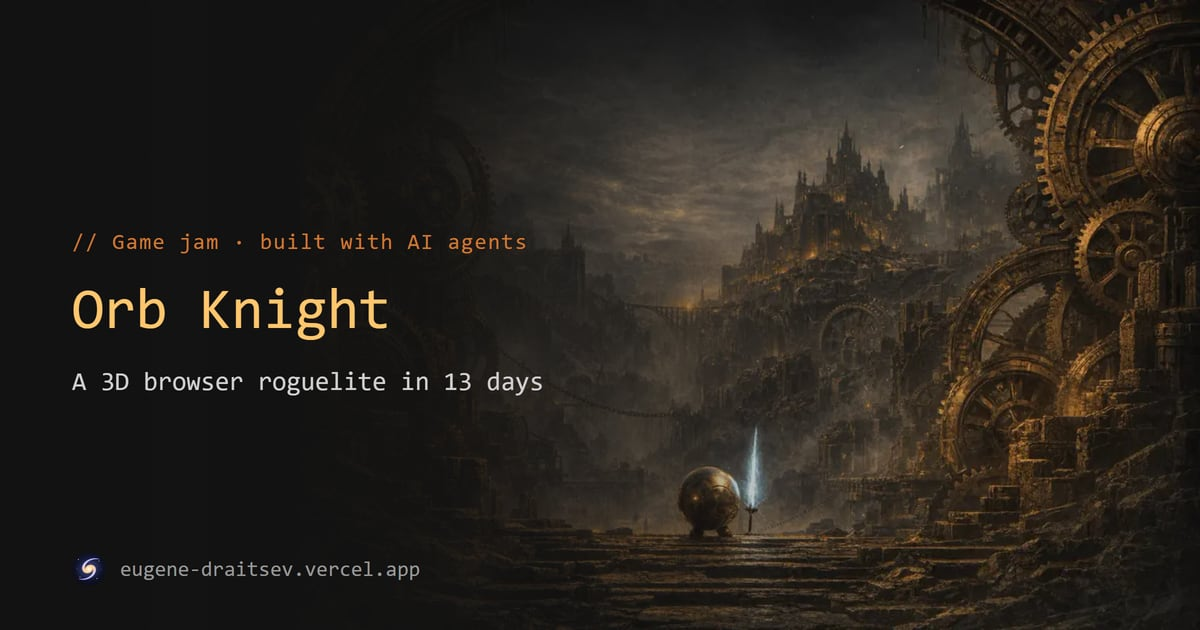
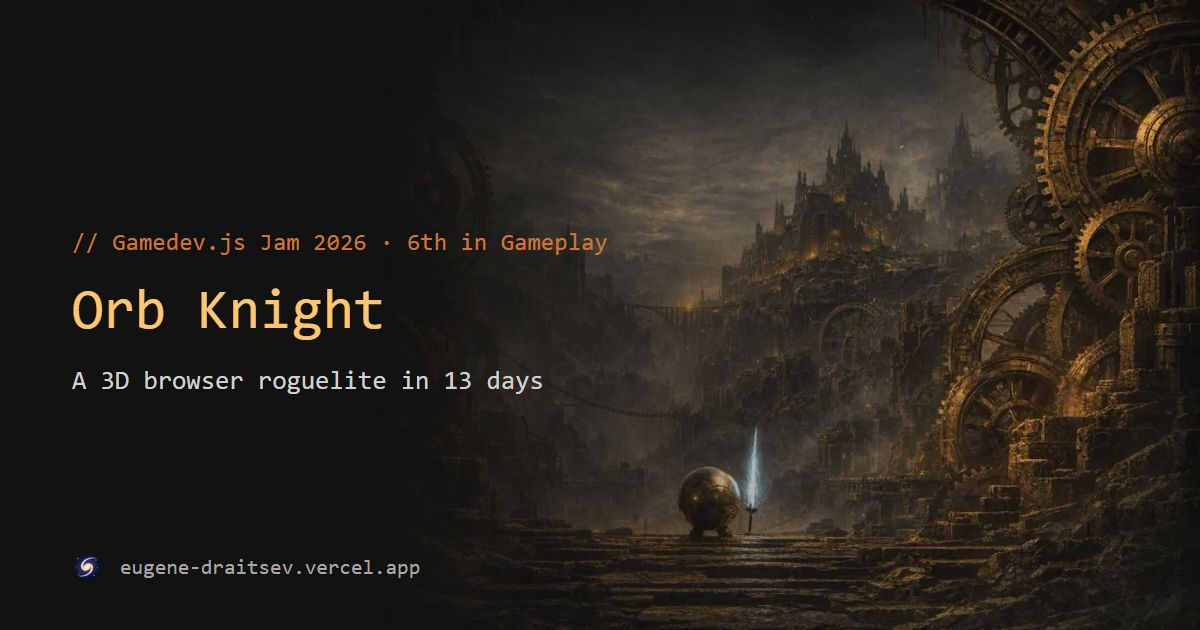
Lead the cards with the results: Rainroam's 2nd place, Orb Knight's ranks
Rainroam's blog card now shows the Shipaton winner card. The thumbnail
keeps the card's badge, name and line whole, padded with its own blurred
background so any crop of the list cell only trims the edges. Its social
card is the winner card itself.

Orb Knight is presented as the game it is rather than as an AI
experiment: the cards, label, tags, meta and lead name the jam and the
result (6th in Gameplay, 12th overall of 483, as itch.io and the
Gamedev.js announcement list it). The workflow section keeps one
paragraph on how it was built instead of the agents-versus-me split,
and the social card is re-rendered with the new label.

diff --git a/src/routes/blog/gamedevjs-2026/+page.svelte b/src/routes/blog/gamedevjs-2026/+page.svelte
@@ -114,41 +114,18 @@
     },
   ];
 
-  const ownership = [
-    {
-      title: 'What stayed mine',
-      items: [
-        'Scope: what the game is, and the growing list of what it is not',
-        'System boundaries between combat, rooms, progression and UI',
-        'Review of every change, plus integration and browser playtesting',
-        'Game feel: timing, camera, feedback — tuned by hand, repeatedly',
-        'The release call and the competition submission',
-      ],
-    },
-    {
-      title: 'What agents did',
-      items: [
-        'Implementation passes across Svelte, Threlte, Three.js and Rapier',
-        'First drafts of combat behaviors, room templates, enemies and UI',
-        'Mechanical refactors across many files',
-        'Storybook fixtures that pin runtime state for review',
-        'Codebase archaeology: "where does the damage number actually come from?"',
-      ],
-    },
-  ];
-
   const lessons = [
     {
       title: 'One observable behavior per loop',
-      text: 'The unit of work that survived: one behavior, one implementation pass, one browser check. Every time I batched more into a prompt, review cost grew faster than the code was worth.',
+      text: 'The unit of work that survived: one behavior, one implementation pass, one browser check. Every time I batched more into one change, review cost grew faster than the code was worth.',
     },
     {
       title: 'Correct is not the same as good',
-      text: 'Agents will happily ship combat that satisfies every stated rule and still feels like hitting cardboard. Feel only comes from playtesting and tuning, over and over.',
+      text: 'Combat can satisfy every stated rule and still feel like hitting cardboard. Feel only comes from playtesting and tuning, over and over.',
     },
     {
       title: 'Storybook was the highest-leverage tool',
-      text: 'Deterministic fixtures turned "run to the boss and hope" into "mount the boss with fixed state". Most agent output got reviewed inside these scenes — the same ones embedded above.',
+      text: 'Deterministic fixtures turned "run to the boss and hope" into "mount the boss with fixed state". Most changes got reviewed inside these scenes — the same ones embedded above.',
     },
     {
       title: 'Innovation cannot be patched in later',
@@ -161,7 +138,7 @@
   <title>Orb Knight: a 3D roguelite in 13 days | Eugene Draitsev</title>
   <meta
     name="description"
-    content="Building Orb Knight for Gamedev.js Jam 2026: a Svelte and Three.js action roguelite made in 13 days with AI coding agents, 6th in Gameplay. Build log and live WebGL scenes."
+    content="Building Orb Knight for Gamedev.js Jam 2026: a Svelte and Three.js action roguelite made in 13 days, 6th in Gameplay and 12th overall. Build log and live WebGL scenes."
   />
   <link rel="canonical" href={canonicalUrl} />
   <meta property="og:title" content={post.title} />
@@ -189,20 +166,17 @@
       </a>
 
       <header class="mt-6 mb-8">
-        <p class="mb-3 text-xs text-keyword uppercase sm:text-sm">
-          Game jam · 13 days · built with AI agents
-        </p>
+        <p class="mb-3 text-xs text-keyword uppercase sm:text-sm">Gamedev.js Jam 2026 · 13 days</p>
         <h1 class="blog-title">Orb Knight: a 3D browser roguelite in 13 days</h1>
         <p class="post-meta">
           <PostDates added={post.datePublished} updated={post.dateModified} />
         </p>
         <p class="blog-lead">
           Gamedev.js Jam 2026 gave everyone the same theme, <em>Machines</em>, and the same 13 days.
-          I had a decade of production web work behind me and no shipped games, so the plan was to
-          build a real-time 3D action game in the browser, let coding agents write most of the code,
-          and keep architecture, review and playtesting myself. A friend, Arseny Yankovski, added
-          the laser charge-up and three enemies. The result is Orb Knight: a brass machine with a
-          sword, a gun and a laser, cutting its way out of a foundry. It took
+          I had a decade of production web work behind me and no shipped games, so I set out to
+          build a real-time 3D action game that runs in a browser tab. A friend, Arseny Yankovski,
+          added the laser charge-up and three enemies. The result is Orb Knight: a brass machine
+          with a sword, a gun and a laser, cutting its way out of a foundry. It took
           <strong>6th in Gameplay</strong> and <strong>12th overall</strong> out of 483 ranked entries.
         </p>
         <div class="mt-5 flex flex-wrap gap-4 text-sm">
@@ -439,30 +413,15 @@
       </section>
 
       <section class="mb-12" aria-labelledby="roles-heading">
-        <p class="section-kicker">05 · The workflow</p>
-        <h2 id="roles-heading" class="section-heading">How the agents and I split the work</h2>
-        <p class="mb-6">
-          Codex and Claude Code wrote most of this game; two of the merged branches are literally
-          named <code>codex/*</code>. My job shifted to splitting systems into tasks small enough to
-          review, keeping state boundaries clean so a bad implementation was cheap to throw away,
-          and playtesting every change, because no agent can tell you the camera feels wrong. The
-          split, roughly:
+        <p class="section-kicker">05 · How it was built</p>
+        <h2 id="roles-heading" class="section-heading">One change, one playtest</h2>
+        <p>
+          Codex and Claude Code wrote a lot of the code. What decided the result was everything
+          around it: cutting systems into changes small enough to review, keeping the boundaries
+          between combat, rooms, progression and UI clean so a bad implementation was cheap to throw
+          away, and playing after every change, because only playing tells you the camera feels
+          wrong. Scope, game feel and the release call stayed with me.
         </p>
-        <div class="grid gap-5 md:grid-cols-2">
-          {#each ownership as column (column)}
-            <article class="detail-card">
-              <h3 class="text-lg text-constant">{column.title}</h3>
-              <ul class="mt-4 space-y-2">
-                {#each column.items as item (item)}
-                  <li class="flex gap-2 text-sm">
-                    <span class="text-keyword" aria-hidden="true">→</span>
-                    <span>{item}</span>
-                  </li>
-                {/each}
-              </ul>
-            </article>
-          {/each}
-        </div>
       </section>
 
       <section aria-labelledby="lessons-heading">
@@ -588,14 +547,5 @@
     .scene-pair {
       grid-template-columns: 1fr 1fr;
     }
-  }
-
-  code {
-    padding: 0.1rem 0.35rem;
-    border-radius: 4px;
-    border: 1px solid var(--color-base-300);
-    background: color-mix(in srgb, var(--color-base-100) 70%, transparent);
-    color: var(--color-string);
-    font-size: 0.85em;
   }
 </style>

diff --git a/src/lib/blog.ts b/src/lib/blog.ts
@@ -5,9 +5,9 @@ export const BLOG_POSTS = [
     label: 'RevenueCat Shipaton 2026 · 2nd place',
     datePublished: '2026-10-08',
     dateModified: '2026-10-21',
-    image: '/blog/rainroam/hero-split.webp',
-    imageAlt:
-      'The same evening in Bellwether, drawn in 3D on the left and in pixel art on the right',
+    // The winner card's left half, padded so any crop of the list cell keeps it whole.
+    image: '/blog/rainroam/shipaton-2nd-place-thumb.webp',
+    imageAlt: 'Shipaton 2026 winner card: Rainroam, 2nd place, Best App for Galaxy',
     imageMode: 'cover',
     socialImage: '/og/rainroam.jpg',
     description:
@@ -31,16 +31,16 @@ export const BLOG_POSTS = [
   {
     slug: 'gamedevjs-2026',
     title: 'Orb Knight: a 3D browser roguelite in 13 days',
-    label: 'Game jam · built with AI agents',
+    label: 'Gamedev.js Jam 2026 · 6th in Gameplay',
     datePublished: '2026-05-12',
-    dateModified: '2026-10-08',
+    dateModified: '2026-10-21',
     image: '/blog/gamedevjs-2026/orb-knight-splash.webp',
     imageAlt: 'Orb Knight facing a mechanical castle on the game title screen',
     socialImage: '/og/gamedevjs-2026.jpg',
     imageMode: 'cover',
     description:
-      'A machine knight with a sword, a gun and a chargeable laser, 6th in Gameplay of 483 ranked jam entries. Build log, scores and live WebGL scenes from the game, embedded in the post.',
-    tags: ['Codex', 'Claude Code', 'SvelteKit', 'Three.js', 'Rapier'],
+      'A machine knight with a sword, a gun and a chargeable laser, cutting its way out of a foundry: 6th in Gameplay and 12th overall of 483 ranked jam entries. Build log, scores and live WebGL scenes from the game, embedded in the post.',
+    tags: ['Three.js', 'Threlte', 'Rapier', 'SvelteKit', 'Web Audio'],
   },
   {
     slug: 'mowfleet-dashboard',

diff --git a/src/lib/components/Projects.svelte b/src/lib/components/Projects.svelte
@@ -8,7 +8,7 @@
   const cardCopy = {
     rainroam: {
       href: '/blog/rainroam',
-      eyebrow: 'RevenueCat Shipaton 2026',
+      eyebrow: 'RevenueCat Shipaton 2026 · 2nd place',
       title: 'Rainroam: an action RPG in 3D and pixel art',
       text: 'A souls-lite adventure played with one thumb. A WebGPU renderer and a Phaser renderer draw the same game state, so the style switches mid-fight.',
       signal: '#2 Best App for Galaxy · App Store · Galaxy Store',
@@ -22,10 +22,10 @@
     },
     'gamedevjs-2026': {
       href: '/blog/gamedevjs-2026',
-      eyebrow: 'Game jam · AI-assisted build',
-      title: 'Orb Knight: shipping my first 3D game with AI agents',
-      text: 'A browser 3D action game built through tight agent and playtest loops. It placed 12th overall and 6th in Gameplay at Gamedev.js Jam 2026.',
-      signal: '#6 Gameplay · 37 ratings',
+      eyebrow: 'Gamedev.js Jam 2026',
+      title: 'Orb Knight: a 3D browser roguelite in 13 days',
+      text: 'A machine knight with a sword, a gun and a chargeable laser, cutting its way out of a foundry. Real-time 3D in a browser tab, made in 13 days for the jam.',
+      signal: '#6 Gameplay · #12 Overall · 483 ranked',
     },
     'mowfleet-dashboard': {
       href: '/blog/mowfleet-dashboard',

diff --git a/src/routes/blog/+page.svelte b/src/routes/blog/+page.svelte
@@ -18,7 +18,7 @@
   <title>Blog | Eugene Draitsev</title>
   <meta
     name="description"
-    content="Build notes by Eugene Draitsev: Rainroam, a one-thumb action RPG in 3D and pixel art; Orb Knight, a 3D browser game built in 13 days with coding agents; a Telegram agent running since 2015; and a robot-mower fleet dashboard."
+    content="Build notes by Eugene Draitsev: Rainroam, a one-thumb action RPG in 3D and pixel art; Orb Knight, a 3D browser roguelite built in 13 days for Gamedev.js Jam; a Telegram agent running since 2015; and a robot-mower fleet dashboard."
   />
   <link rel="canonical" href={canonicalUrl} />
   <meta property="og:title" content="Blog | Eugene Draitsev" />
